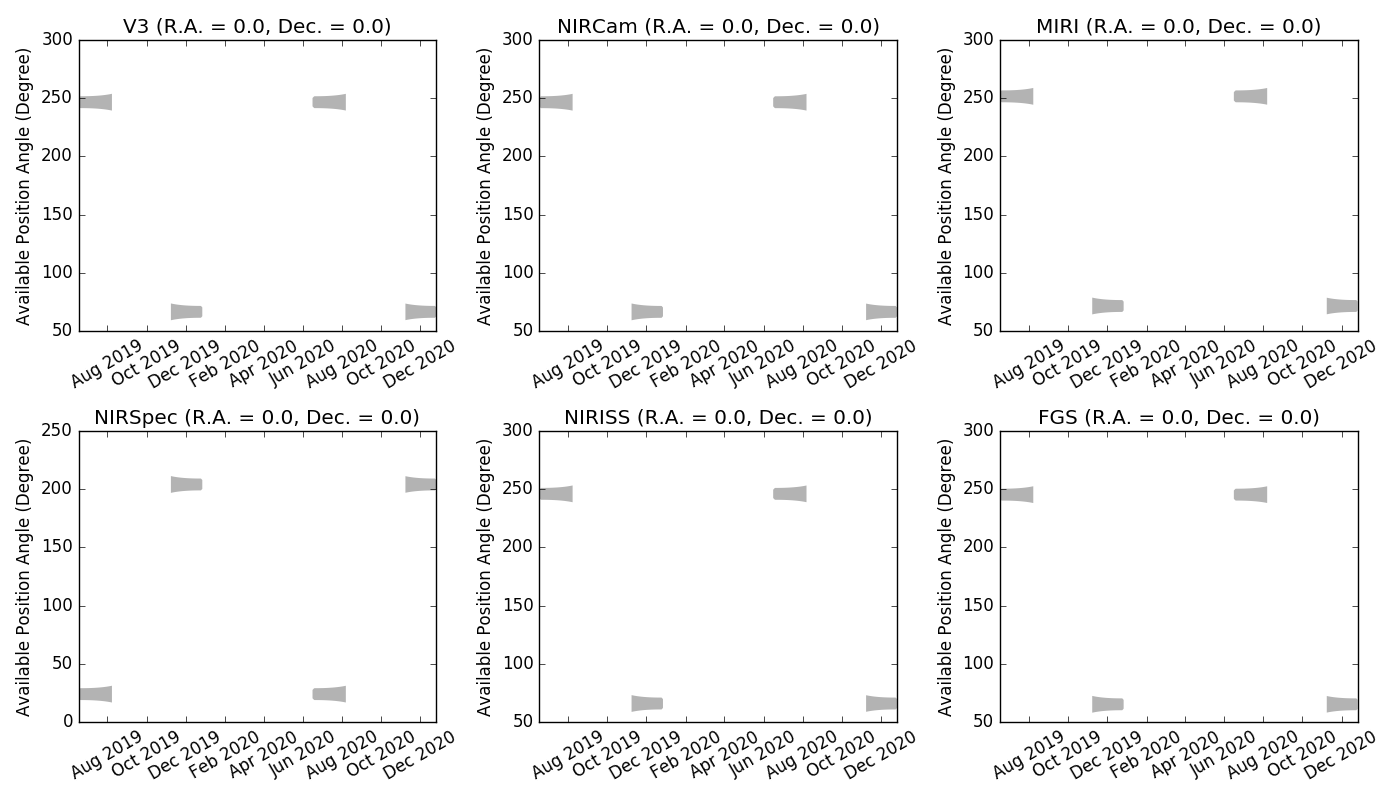
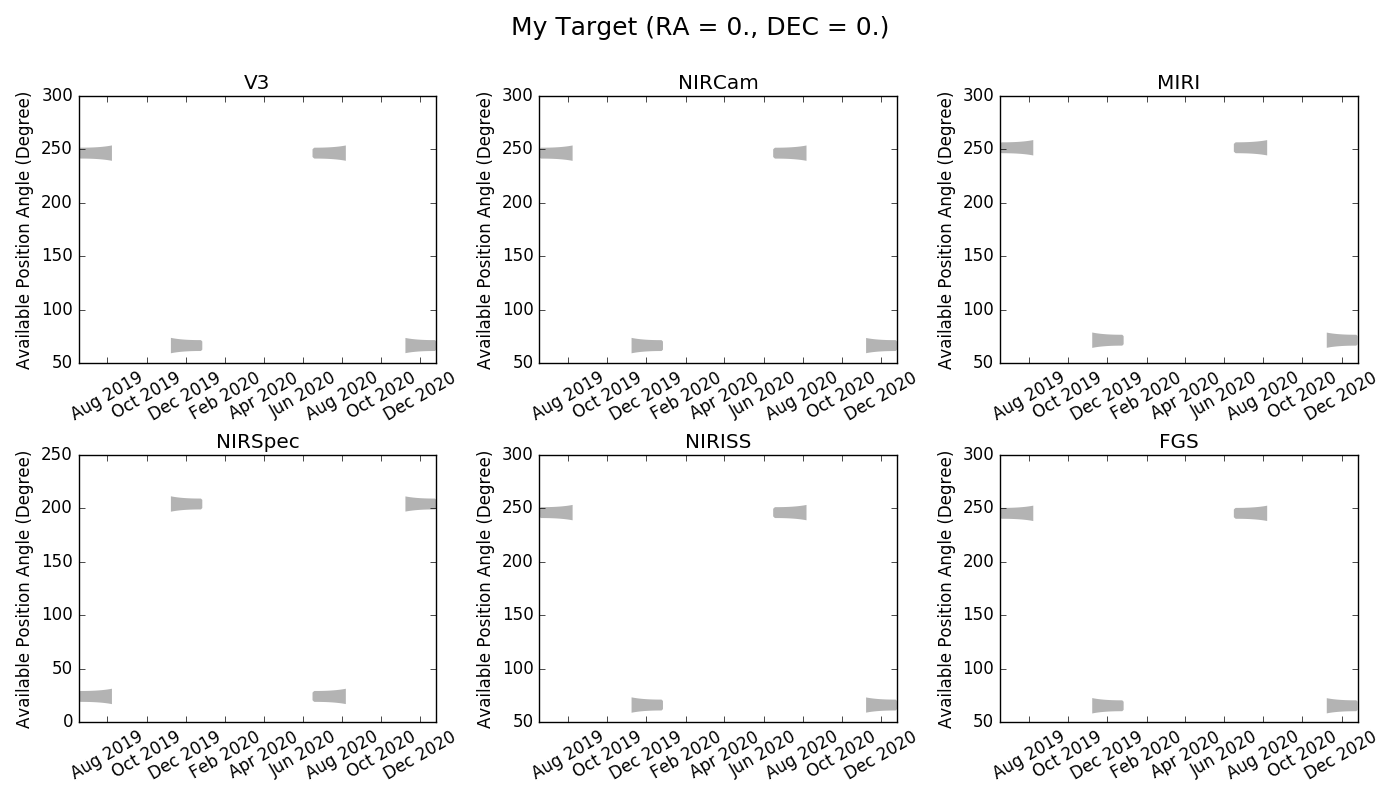
update plots

diff --git a/README.md b/README.md
@@ -278,16 +278,20 @@ The observability windows will be printed to the terminal and a plot showing the
 
 ![Example Plot](jwst_target_visibility.png "Example default plot output.")
 
-You can also specify the instrument via the `--instrument` flag.
+You can specify the instrument via the `--instrument` flag.
 
 `python find_tgt_info.py 0.0 0.0 --instrument nircam`
 
 and the resulting plot will only contain the windows for the specified instrument.
 The allowed values for `--instrument` are 'nircam', 'nirspec', 'niriss', 'miri', 'fgs', and 'v3' (case insensitive).
 
+Setting the `--name` flag will add a target name to the plot title
+
+`python find_tgt_info.py 0.0 0.0 --instrument nircam --name "My Target"`
+
 ![Example Plot](nircam_target_visibility.png "Example plot output when specifying instrument.")
 
-You can also save the ouput to a file instead of having it output to terminal with `--save_table`.  Likewise, you can save the plot with `--save_plot`.
+You can save the ouput to a file instead of having it output to terminal with `--save_table`.  Likewise, you can save the plot with `--save_plot`.
 
 `python find_tgt_info.py 0.0 0.0 --save_table visibility.txt --save_plot visibility.png`
 
